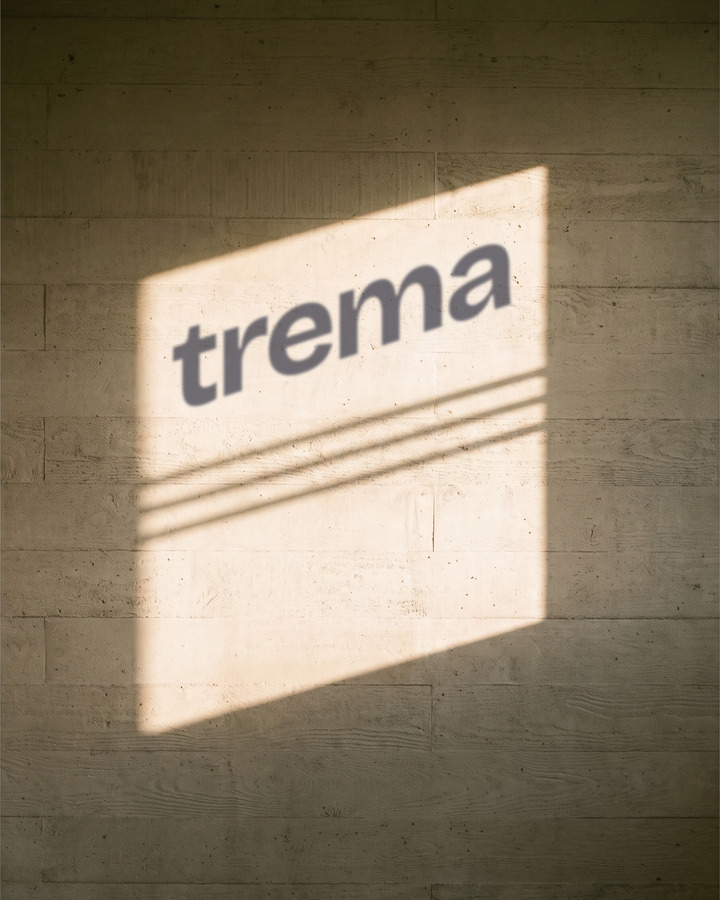
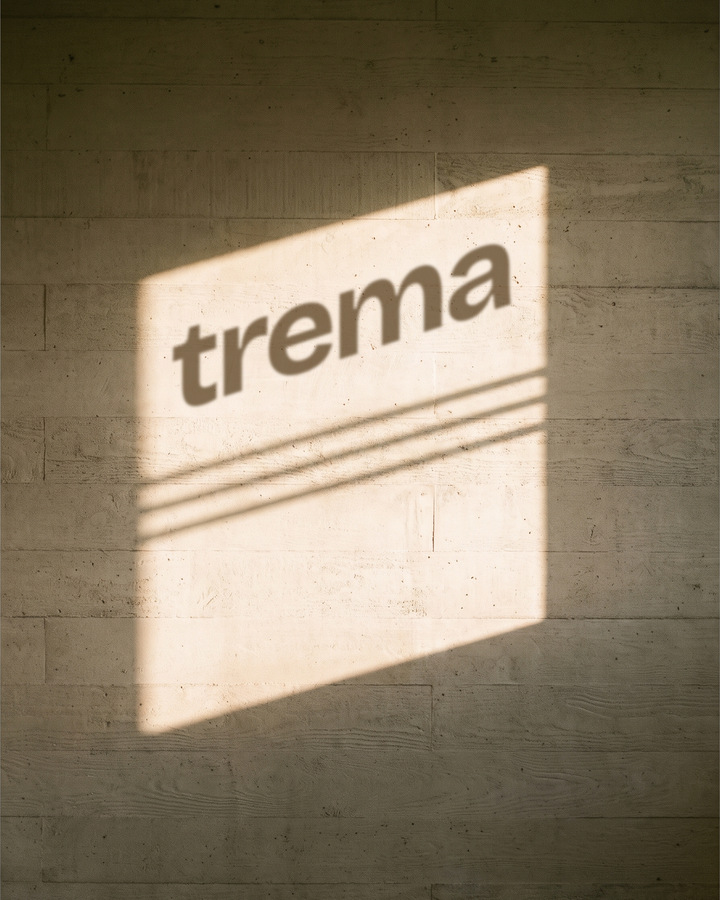
L'ombre passe dans le brun
Le gris etait trop neutre a cote de la matiere. J'avais fait tomber le
bleu moins que le rouge — vrai sous un ciel bleu, faux ici : le soleil
est bas et chaud, le beton est ocre, et ce qui reste dans l'ombre garde
cette chaleur. Le bleu tombe donc le plus.

Coefficients 0.48 / 0.545 / 0.64 au lieu de 0.55 / 0.54 / 0.49. La
luminance ne bouge pas — 0.538 avant, 0.538 apres : l'ombre n'est ni
plus claire ni plus sombre, seule sa teinte a change. R moins B passe
de negatif a +49.

Changed region(s): [[0.2444, 0.2489, 0.7333, 0.4667]]

diff --git a/selection.html b/selection.html
@@ -196,7 +196,7 @@ const BANK = [
   {f:"77-comptoir-cafe",                             t:"The coffee counter",                           k:"Pro 2K",               s:"",          d:"Blond oak, one machine at the far edge. The ochre wall is two thirds of the frame."},
   {f:"81-etagere-vins",                             t:"The wine shelf",                           k:"Pro 2K",               s:"",          d:"One row of identical bottles on petrol blue. Repetitive, graphic."},
   {f:"79-fleuriste-mur",                             t:"The florist's wall",                           k:"Pro 2K",               s:"",          d:"Dusty pink plaster, zinc buckets, one burgundy accent."},
-  {f:"84-ombre-beton",                             t:"The shadow, concrete",                           k:"Composite",               s:"",          d:"Same idea as the parquet, moved onto board-formed concrete. Real logotype, cast into the sun patch at the angle of the window bars."},
+  {f:"84-ombre-beton",                             t:"The shadow, concrete",                           k:"Composite",               s:"",          d:"Same idea as the parquet, moved onto board-formed concrete. Real logotype, cast into the sun patch at the angle of the window bars. The shadow is brown, not grey — a low warm sun leaves warmth behind it."},
   {f:"85-piece-picto",        t:"The room, engraved",   k:"Composite", s:"",      d:"Raking sun, foliage shadow, terracotta. The sign is cut into the plaster on the right-hand wall — you find it, it does not announce itself."},
   {f:"80-salle-restaurant",                             t:"Before service",                           k:"Pro 2K",               s:"",          d:"Two laid tables under a bare terracotta wall. The room is empty on purpose."},
 ];
